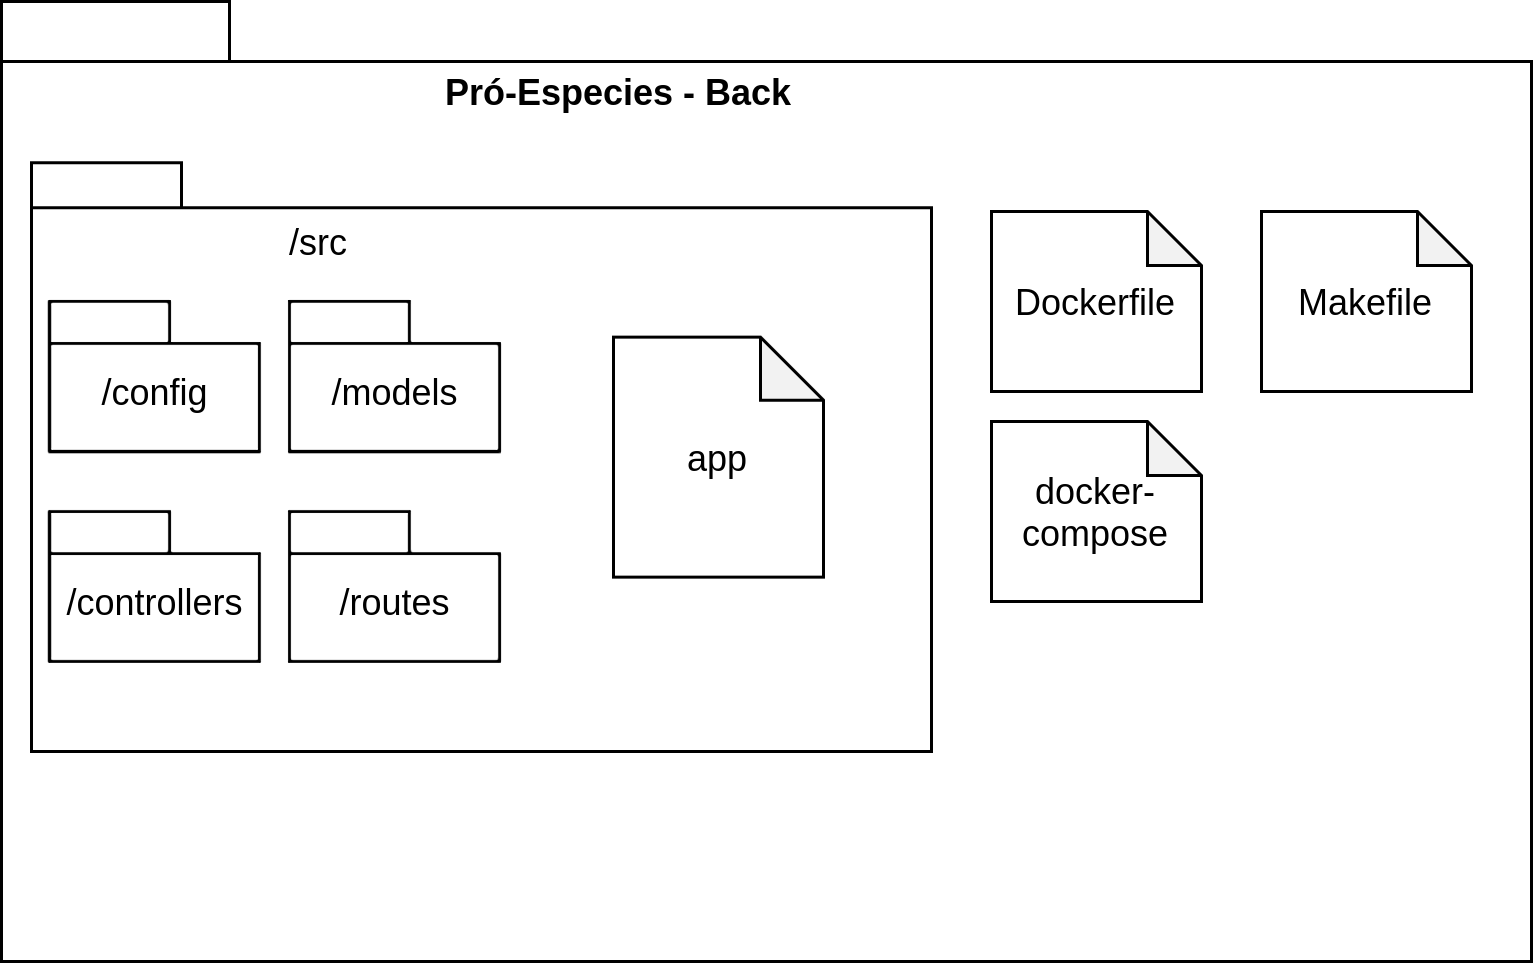
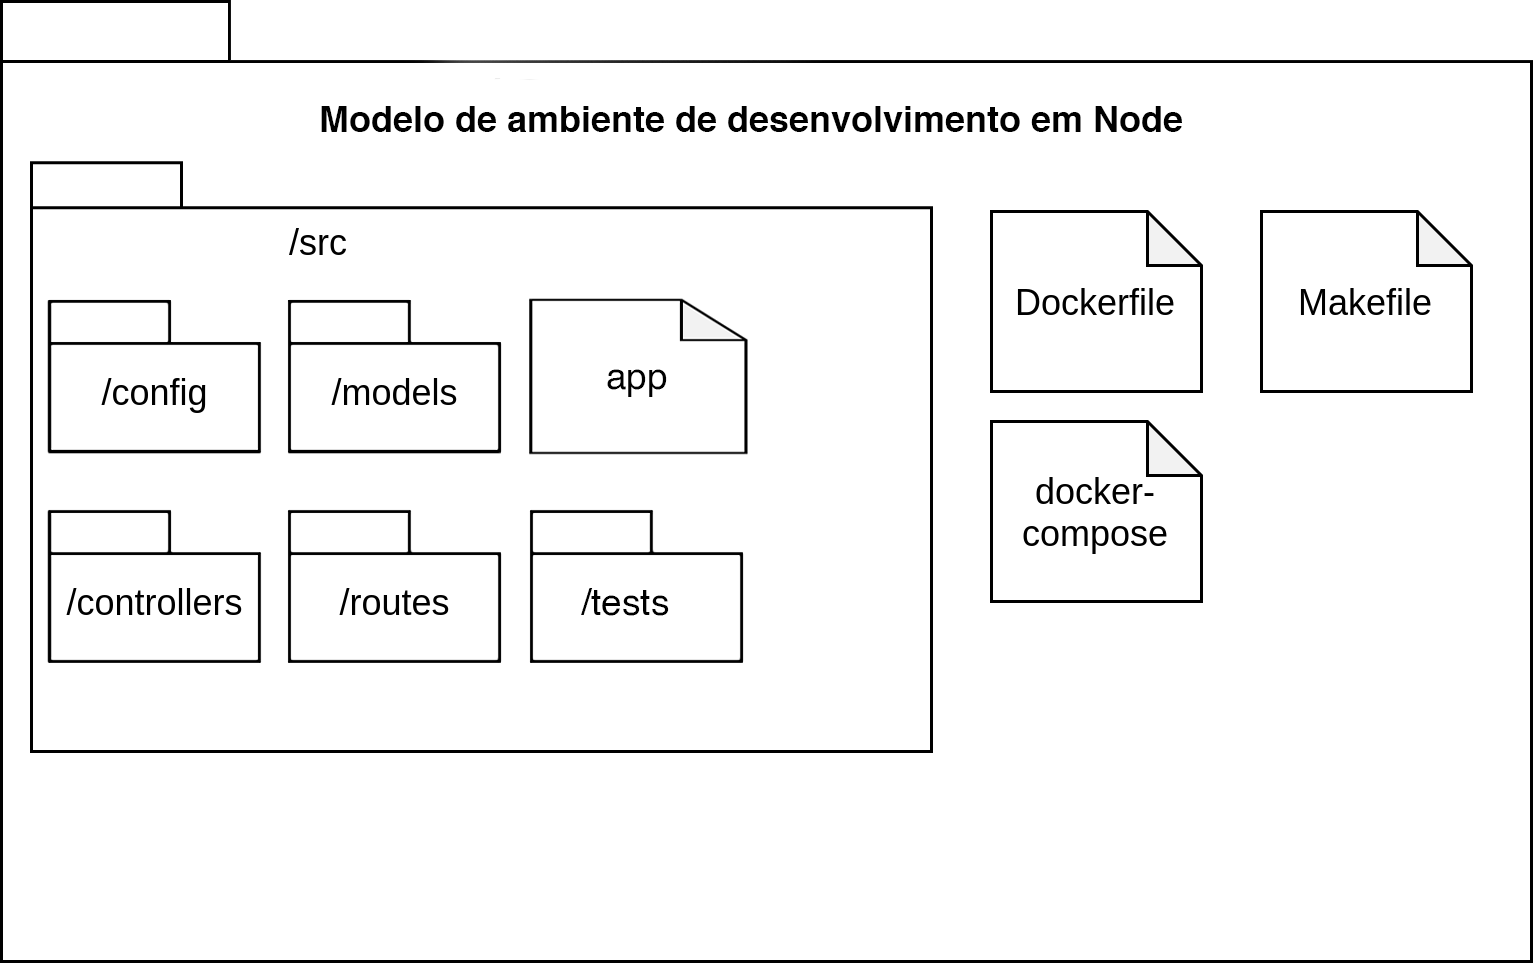
#90 - Update class diagram, logical vision and technologies at architecture document

diff --git a/docs/Product/ArchitectureDocument.md b/docs/Product/ArchitectureDocument.md
@@ -12,6 +12,7 @@
 | 25/08/2021 |  1.1   | Revisão do documento, correção de erros e formatação do documento  |   [Lucas Fellipe](https://github.com/lucasfcm9)     |
 | 28/08/2021 |  1.2   | Revisão da Representação arquitetural e adição do diagrama de classes  |   [Iuri Severo](https://github.com/iurisevero)     |
 | 04/09/2021 |  1.3   | Remoção do Diagrama de Casos de Uso |   [João Pedro Guedes](https://github.com/sudjoao)     |
+| 07/09/2021 |  1.4   | Atualização do Diagrama de Classes, da Visão Lógica (tópico 4) e da Representação Arquitetural (tópico 2) |   [Iuri Severo](https://github.com/iurisevero)     |
 
 
 ## 1. Introdução
@@ -49,7 +50,7 @@ Esse microsserviço é responsável pelo gerenciamento de usuários na plataform
 
 #### 2.1.3 Biblioteca de Dados
 
-Esse microsserviço é responsável pelo armazenamento de dados de Peixes coletados no *FishBase* ou cadastrados pelos Pesquisadores na plataforma a fim de disponibilizar informações que ajudem os pescadores a fazerem relatórios com dados mais exatos.
+Esse microsserviço é responsável pelo armazenamento de dados sobre Peixes, adquiridos  a partir do consumo de uma planilha de informações disponibilizada pelos pesquisadores,  a fim de fornecer conhecimentos que ajudem os pescadores a fazerem relatórios mais exatos.
 
 ### 2.2 Tecnologias
 
@@ -58,9 +59,6 @@ Esse microsserviço é responsável pelo armazenamento de dados de Peixes coleta
 
 #### Node.js
 O *Node.js* é um ambiente de execução JavaScript *server-side*, permitindo criar aplicações JavaScript para rodar como uma aplicação *standalone* em uma máquina, não dependendo de um *browser* para a execução.</p>
-
-#### Python
-*Python* é uma linguagem de programação de alto nível, interpretada de *script*, imperativa, orientada a objetos, funcional, de tipagem dinâmica e forte.
 
 #### MongoDB
 *MongoDB* é um *software* de banco de dados orientado a documentos livres, de código aberto e multiplataforma. É classificado como um programa de banco de dados *NoSQL*. Além disso, o *MongoDB* usa documentos semelhantes a *JSON* com esquemas.</p>
@@ -88,25 +86,27 @@ As restrições de arquitetura são:
 
 ## 4. Visão Lógica
 
+<p align="justify"> &emsp;&emsp;A visão lógica será representada por dois diagramas de pacotes, um para tecnologias adotadas no <i>frontend</i> do projeto e um para as tecnologias do <i>backend</i>.
+</br> &emsp;&emsp;O modelo de ambiente de desenvolvimento em <i>Node</i> será usado como base para organização dos repositórios de <a href="https://github.com/fga-eps-mds/2021.1-Pro-Especies-User">Usuários</a>, <a href="https://github.com/fga-eps-mds/2021.1-Pro-Especies-FishLog">Relatórios</a> e <a href="https://github.com/fga-eps-mds/2021.1-Pro-Especies-Wiki">Biblioteca de Dados</a>, enquanto o modelo de ambiente de desenvolvimento em <i>Flutter</i> será usado para o repositório responsável pelo <a href="https://github.com/fga-eps-mds/2021.1-Pro-Especies-Frontend">Aplicativo Mobile</a>.</p>
+
 ### 4.1 Diagrama de Pacotes
 
-#### Front-End
+#### Aplicativo Mobile
 ![Diagrama de pacotes-Front](../Assets/Images/ArchitectureDocument/FrontPackageDiagram.png)
 
-#### Back-End
+#### Serviço de Usuários, Relatórios e Biblioteca de Dados
 ![Diagrama de pacotes-Back](../Assets/Images/ArchitectureDocument/BackPackageDiagram.png)
-
-#### Biblioteca de Dados
-![Diagrama de pacotes-Crawler](../Assets/Images/ArchitectureDocument/CrawlerPackageDiagram.png)
 
 ## 5. Visão de Implementação
 
 <p align="justify"> &emsp;&emsp;A visão de implementação apresenta os detalhes de implementação do sistema. O Diagrama de Classes é uma de suas principais representações.</p>
 
-### 5.1 Diagrama de Classes
+### 5.1 Diagrama de Classes v1.1
 
 <p align="justify"> &emsp;&emsp;O Diagrama de Classes é uma representação da estrutura e relações das classes que servem de modelo para os objetos.</p>
 
 ![Diagrama de Classes](../Assets/Images/ArchitectureDocument/ClassDiagram.png)
+
+<sub><a href="https://github.com/fga-eps-mds/2021.1-Pro-Especies-Docs/blob/dc33e69d07c98d0e85e17a05afa6ed82d8fa388e/docs/Assets/Images/ArchitectureDocument/ClassDiagram.png">Link para acesso a versão 1.0 do Diagrama de Classes</a></sub>
 
 <p align="justify"> &emsp;&emsp; O diagrama acima representa os três principais serviços levantados para o produto. A associação entre usuário e registro de peixes será utilizada para relacionar os objetos gerados.</p>
